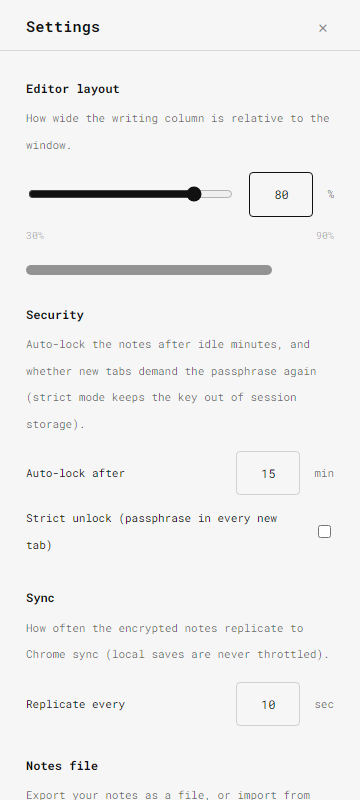
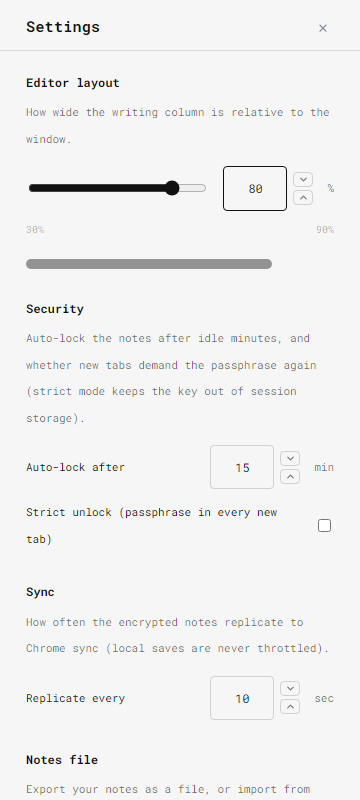
feat(settings): steppers, preferences export/import, seam-proof header
- Stylish step buttons replace the (hidden) native spinners: a chevron
  pair beside each number input, same border/hover/active language as
  the rail controls, night variants; steps read the input's own
  step/min/max and reuse its change handler for clamping + persistence.
- New Preferences section (end of the panel): export every panel-owned
  setting (editorwidth, autolock, syncinterval, strictunlock, daymode,
  hidemode, shortcutmap) as mindful-settings.json; import is whitelist +
  range validated, re-applies everything live (slider, inputs, checkbox,
  theme, editor width, shortcut rows) and notifies the vault via the
  strictunlock storage event; junk files are rejected with an inline
  'invalid file' status.
- Header separator moved from a border edge to an inset box-shadow
  painted inside the sticky head, with the card flush against it (no
  margin gap): a border on a sticky composited layer can render as a
  dark seam band on some GPU/dpi combinations — the reported artifact.
- Tests: +2 (stepper step/clamp/persist; preferences import whitelist +
  junk rejection) — suite 77/77. Settings screenshots recaptured.

diff --git a/src/src/plugins/mindful/mindful.js b/src/src/plugins/mindful/mindful.js
@@ -158,10 +158,12 @@ Mindful.prototype.ensureSettingsStyles = function(){
         '.mfk-settings-card { padding: 18px 26px 32px; }',
         '.mfk-settings-head { position: sticky; top: 0; z-index: 5;',
         '    display: flex; align-items: center; justify-content: space-between;',
-        '    padding: 16px 26px 12px; margin: 0 0 6px;',
+        '    padding: 16px 26px 13px; margin: 0;',
         '    background: #f6f6f6;',
-        '    /* the rule separating the header from the scrolling body */',
-        '    border-bottom: 1px solid rgba(0, 0, 0, .12); }',
+        '    /* separator painted INSIDE the head: a border edge on a sticky',
+        '       (composited) layer can render as a dark seam band on some',
+        '       GPU/dpi combos — the inset shadow is part of the head paint */',
+        '    box-shadow: inset 0 -1px 0 rgba(0, 0, 0, .12); }',
         '.mfk-settings-head h1 { font-size: 15px; font-weight: 700; margin: 0;',
         '    letter-spacing: .02em; }',
         '.mfk-settings-close { font-size: 18px; line-height: 1; cursor: pointer;',
@@ -193,6 +195,25 @@ Mindful.prototype.ensureSettingsStyles = function(){
         '    border-color: rgba(0, 0, 0, .4); }',
         '.mfk-settings-row input[type="number"]:focus {',
         '    outline: none; border-color: #111; }',
+        '/* stylish step buttons — the native spinners were removed for',
+        '   clutter; these replace them with the rail-control look */',
+        '.mfk-stepper { display: inline-flex; align-items: center; gap: 6px; }',
+        '.mfk-stepper-btns { display: inline-flex; flex-direction: column;',
+        '    gap: 3px; }',
+        '.mfk-stepper-btn { display: flex; align-items: center;',
+        '    justify-content: center; width: 20px; height: 15px; padding: 0;',
+        '    background: none; border: 1px solid rgba(0, 0, 0, .15);',
+        '    border-radius: 4px; color: rgba(0, 0, 0, .54); cursor: pointer;',
+        '    transition: color .2s ease-in-out, border-color .2s ease-in-out;',
+        '    transform: scale(1); }',
+        '.mfk-stepper-btn:hover { color: inherit;',
+        '    border-color: rgba(0, 0, 0, .4); }',
+        '.mfk-stepper-btn:active { transform: scale(.9); }',
+        '.mfk-stepper-btn svg { display: block; }',
+        '.night .mfk-stepper-btn { border-color: rgba(255, 255, 255, .2);',
+        '    color: rgba(255, 255, 255, .54); }',
+        '.night .mfk-stepper-btn:hover { color: #dadada;',
+        '    border-color: rgba(255, 255, 255, .5); }',
         '.mfk-settings-unit { font-size: 11px; color: rgba(0, 0, 0, .62); }',
         '.mfk-settings-label { font-size: 11px; flex: 1; }',
         '.mfk-settings-row-tight { margin-top: 10px; }',
@@ -244,7 +265,7 @@ Mindful.prototype.ensureSettingsStyles = function(){
         '.night .mfk-settings-panel { background: #1a1d21; color: #dadada;',
         '    scrollbar-color: rgba(255, 255, 255, .32) rgba(255, 255, 255, .07); }',
         '.night .mfk-settings-head { background: #1a1d21;',
-        '    border-bottom-color: rgba(255, 255, 255, .14); }',
+        '    box-shadow: inset 0 -1px 0 rgba(255, 255, 255, .14); }',
         '.night .mfk-settings-close { color: rgba(255, 255, 255, .45); }',
         '.night .mfk-settings-close:hover { color: #dadada; }',
         '.night .mfk-settings-sub { color: rgba(255, 255, 255, .62); }',
@@ -323,6 +344,16 @@ Mindful.prototype.buildSettingsPanel = function(){
                 '<h2>Shortcuts</h2>' +
                 '<p class="mfk-settings-sub">Remap the editor commands: click a binding, then press the new combination. Chrome-reserved keys and duplicates are rejected. Escape cancels.</p>' +
                 '<div class="mfk-settings-shortcuts"></div>' +
+            '</section>' +
+            '<section>' +
+                '<h2>Preferences</h2>' +
+                '<p class="mfk-settings-sub">Export every setting — theme, layout, security timings, shortcuts — as a JSON file, or import one back.</p>' +
+                '<div class="mfk-settings-notes-actions">' +
+                    '<button type="button" data-pref="export" title="Download the current settings as JSON">Export…</button>' +
+                    '<button type="button" data-pref="import" title="Load settings from a settings JSON file">Import…</button>' +
+                    '<input type="file" class="mfk-pref-file" accept=".json,application/json" hidden>' +
+                    '<span class="mfk-pref-status" aria-live="polite"></span>' +
+                '</div>' +
             '</section>' +
         '</div>';
 
@@ -484,6 +515,109 @@ Mindful.prototype.buildSettingsPanel = function(){
     }
     document.addEventListener('keydown', onCaptureKeydown, true);
     renderShortcutRows();
+
+    // stylish steppers — the native spin buttons are hidden; these carry
+    // the rail-control look and reuse the inputs' own change handlers for
+    // clamping + persistence
+    var CHEVRON_UP = '<svg viewBox="0 0 24 24" width="11" height="11" fill="none" stroke="currentColor" stroke-width="2.4" stroke-linecap="round" stroke-linejoin="round" aria-hidden="true"><polyline points="18 15 12 9 6 15"/></svg>';
+    var CHEVRON_DOWN = '<svg viewBox="0 0 24 24" width="11" height="11" fill="none" stroke="currentColor" stroke-width="2.4" stroke-linecap="round" stroke-linejoin="round" aria-hidden="true"><polyline points="6 9 12 15 18 9"/></svg>';
+    panel.querySelectorAll('.mfk-settings-row input[type="number"]').forEach(function (input) {
+        var wrap = document.createElement('span');
+        wrap.className = 'mfk-stepper';
+        input.parentNode.insertBefore(wrap, input);
+        wrap.appendChild(input);
+        var btns = document.createElement('span');
+        btns.className = 'mfk-stepper-btns';
+        [['down', CHEVRON_DOWN, -1], ['up', CHEVRON_UP, 1]].forEach(function (def) {
+            var b = document.createElement('button');
+            b.type = 'button';
+            b.className = 'mfk-stepper-btn';
+            b.setAttribute('aria-label', (input.getAttribute('aria-label') || 'value') + ' ' + (def[2] > 0 ? 'increase' : 'decrease'));
+            b.innerHTML = def[1];
+            b.addEventListener('click', function () {
+                var step = parseFloat(input.step) || 1;
+                var min = input.min === '' ? -Infinity : parseFloat(input.min);
+                var max = input.max === '' ? Infinity : parseFloat(input.max);
+                var v = parseFloat(input.value) || 0;
+                v = Math.min(max, Math.max(min, v + def[2] * step));
+                if (String(v) === input.value) return;
+                input.value = v;
+                input.dispatchEvent(new Event('change', { bubbles: true }));
+            });
+            btns.appendChild(b);
+        });
+        wrap.appendChild(btns);
+    });
+
+    // F-prefs: export/import the settings this panel owns (localStorage
+    // keys, string values as stored; shortcutmap round-trips as its JSON
+    // string). Import is whitelist + range validated and re-applies
+    // everything live.
+    var prefStatus = panel.querySelector('.mfk-pref-status');
+    var prefFile = panel.querySelector('.mfk-pref-file');
+    var PREF_KEYS = ['editorwidth', 'autolock', 'syncinterval', 'strictunlock', 'daymode', 'hidemode', 'shortcutmap'];
+    function prefFlash(text) {
+        prefStatus.textContent = text;
+        clearTimeout(self._prefTimer);
+        self._prefTimer = setTimeout(function () { prefStatus.textContent = ''; }, 2500);
+    }
+    panel.querySelector('[data-pref="export"]').addEventListener('click', function () {
+        var out = { app: 'mindful-next', kind: 'settings', version: 1,
+            exported: new Date().toISOString(), settings: {} };
+        PREF_KEYS.forEach(function (k) {
+            var v = localStorage.getItem(k);
+            if (v !== null) out.settings[k] = v;
+        });
+        var blob = new Blob([JSON.stringify(out, null, 2)], { type: 'application/json' });
+        var a = document.createElement('a');
+        a.href = URL.createObjectURL(blob);
+        a.download = 'mindful-settings.json';
+        document.body.appendChild(a);
+        a.click();
+        a.remove();
+        setTimeout(function () { URL.revokeObjectURL(a.href); }, 1000);
+        prefFlash('exported');
+    });
+    panel.querySelector('[data-pref="import"]').addEventListener('click', function () { prefFile.click(); });
+    prefFile.addEventListener('change', function () {
+        var file = prefFile.files && prefFile.files[0];
+        prefFile.value = '';
+        if (!file) return;
+        var reader = new FileReader();
+        reader.onload = function () {
+            try {
+                var data = JSON.parse(reader.result);
+                var s = data && data.kind === 'settings' && data.settings;
+                if (!s || typeof s !== 'object' || Array.isArray(s)) throw new Error('bad shape');
+                if (s.editorwidth !== undefined) { var w = parseInt(s.editorwidth, 10); if (w >= 30 && w <= 90) localStorage.setItem('editorwidth', String(w)); }
+                if (s.autolock !== undefined) { var al = parseInt(s.autolock, 10); if (al >= 1 && al <= 720) localStorage.setItem('autolock', String(al)); }
+                if (s.syncinterval !== undefined) { var si = parseInt(s.syncinterval, 10); if (si >= 10 && si <= 600) localStorage.setItem('syncinterval', String(si)); }
+                if (s.strictunlock === '0' || s.strictunlock === '1') {
+                    localStorage.setItem('strictunlock', s.strictunlock);
+                    // the vault watches this event and flips its session mirror
+                    window.dispatchEvent(new StorageEvent('storage', { key: 'strictunlock',
+                        newValue: s.strictunlock, oldValue: s.strictunlock === '1' ? '0' : '1' }));
+                }
+                if (s.daymode === 'day' || s.daymode === 'night') { localStorage.setItem('daymode', s.daymode); self.setNightMode(); }
+                if (s.hidemode === 'show' || s.hidemode === 'hide') { localStorage.setItem('hidemode', s.hidemode); self.setHideMode(); }
+                if (s.shortcutmap !== undefined) {
+                    var map = typeof s.shortcutmap === 'string' ? JSON.parse(s.shortcutmap) : s.shortcutmap;
+                    if (!map || typeof map !== 'object' || Array.isArray(map)) throw new Error('bad shortcutmap');
+                    localStorage.setItem('shortcutmap', JSON.stringify(map));
+                    renderShortcutRows();
+                }
+                self.applyEditorWidth();
+                render(readWidth());
+                autolockInput.value = parseInt(localStorage.getItem('autolock'), 10) || 15;
+                strictInput.checked = localStorage.getItem('strictunlock') === '1';
+                syncInput.value = parseInt(localStorage.getItem('syncinterval'), 10) || 10;
+                prefFlash('imported');
+            } catch (err) {
+                prefFlash('invalid file');
+            }
+        };
+        reader.readAsText(file);
+    });
 };
 
 Mindful.prototype.setHideMode = function(){

diff --git a/tests/settings-panel.spec.js b/tests/settings-panel.spec.js
@@ -295,4 +295,76 @@ test.describe('settings side panel', () => {
         expect(night).toBe('rgb(26, 29, 33)');
         expect(pageErrors).toEqual([]);
     });
+
+    test('steppers step, clamp and persist through the inputs change handlers', async ({ page }) => {
+        await INIT(page);
+        await page.locator('.fk-icon-settings').dispatchEvent('click');
+        await page.waitForFunction(() =>
+            document.querySelector('.mfk-settings-panel').classList.contains('mfk-settings-open'),
+            null, { timeout: 3000 });
+        const out = await page.evaluate(() => {
+            const num = document.querySelector('.mfk-settings-autolock');
+            const btns = num.closest('.mfk-stepper').querySelectorAll('.mfk-stepper-btn');
+            btns[1].click();
+            btns[1].click();
+            const afterUp = { shown: num.value, stored: localStorage.getItem('autolock') };
+            num.value = '2';
+            btns[0].click();
+            return { afterUp: afterUp, clamped: num.value, stored: localStorage.getItem('autolock') };
+        });
+        expect(out.afterUp.stored).toBe('17');
+        expect(out.clamped).toBe('1');
+        expect(out.stored).toBe('1');
+        expect(pageErrors).toEqual([]);
+    });
+
+    test('preferences import applies whitelisted settings; junk is rejected', async ({ page }) => {
+        await INIT(page);
+        await page.locator('.fk-icon-settings').dispatchEvent('click');
+        await page.waitForFunction(() =>
+            document.querySelector('.mfk-settings-panel').classList.contains('mfk-settings-open'),
+            null, { timeout: 3000 });
+        const payload = {
+            app: 'mindful-next', kind: 'settings', version: 1,
+            settings: {
+                editorwidth: '55', autolock: '90', daymode: 'night',
+                bogus: 'injected',
+            },
+        };
+        const applied = await page.evaluate(payload => new Promise(res => {
+            const file = new File([JSON.stringify(payload)], 'settings.json', { type: 'application/json' });
+            const dt = new DataTransfer();
+            dt.items.add(file);
+            const input = document.querySelector('.mfk-pref-file');
+            input.files = dt.files;
+            input.dispatchEvent(new Event('change', { bubbles: true }));
+            setTimeout(() => res({
+                width: localStorage.getItem('editorwidth'),
+                autolock: localStorage.getItem('autolock'),
+                bogus: localStorage.getItem('bogus'),
+                night: document.documentElement.classList.contains('night'),
+                numShown: document.querySelector('.mfk-settings-autolock').value,
+                status: document.querySelector('.mfk-pref-status').textContent,
+            }), 300);
+        }), payload);
+        expect(applied.width).toBe('55');
+        expect(applied.autolock).toBe('90');
+        expect(applied.bogus).toBe(null);
+        expect(applied.night).toBe(true);
+        expect(applied.numShown).toBe('90');
+        expect(applied.status).toBe('imported');
+
+        await page.evaluate(() => new Promise(res => {
+            const file = new File(['{"kind":"nope"}'], 'x.json', { type: 'application/json' });
+            const dt = new DataTransfer();
+            dt.items.add(file);
+            const input = document.querySelector('.mfk-pref-file');
+            input.files = dt.files;
+            input.dispatchEvent(new Event('change', { bubbles: true }));
+            setTimeout(() => res(document.querySelector('.mfk-pref-status').textContent), 300);
+        }));
+        const status = await page.evaluate(() => document.querySelector('.mfk-pref-status').textContent);
+        expect(status).toBe('invalid file');
+        expect(pageErrors).toEqual([]);
+    });
 });
